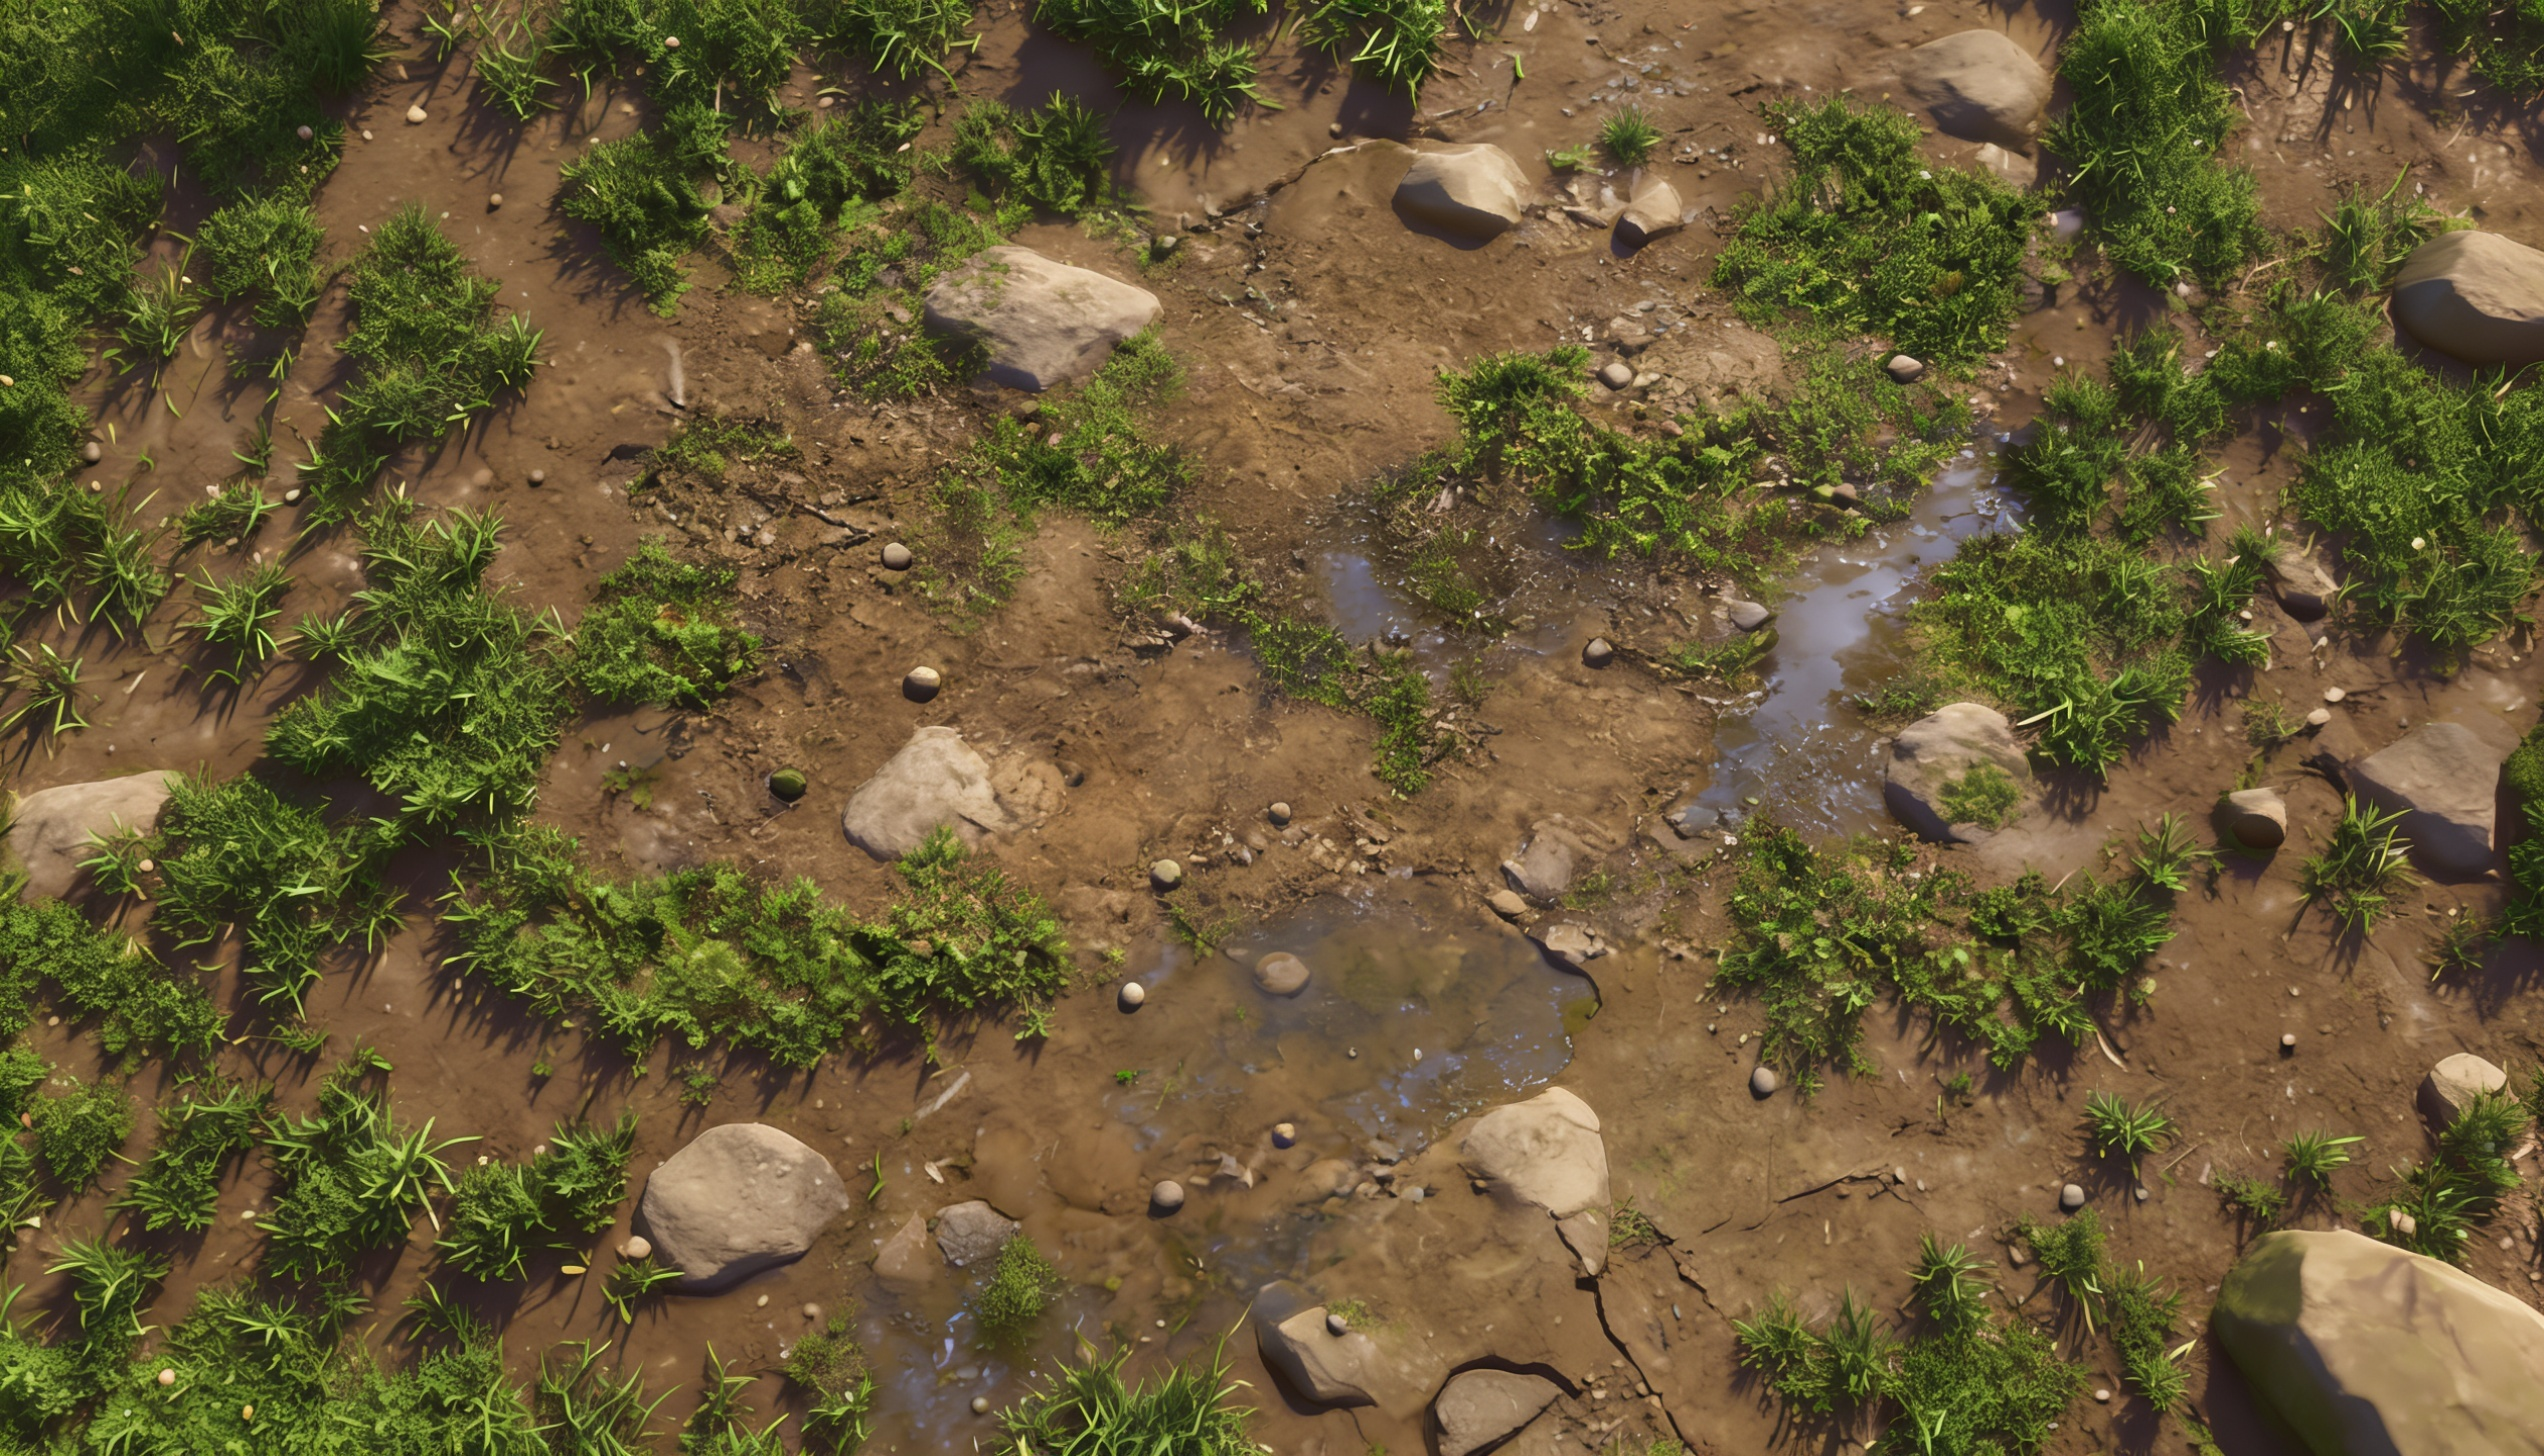
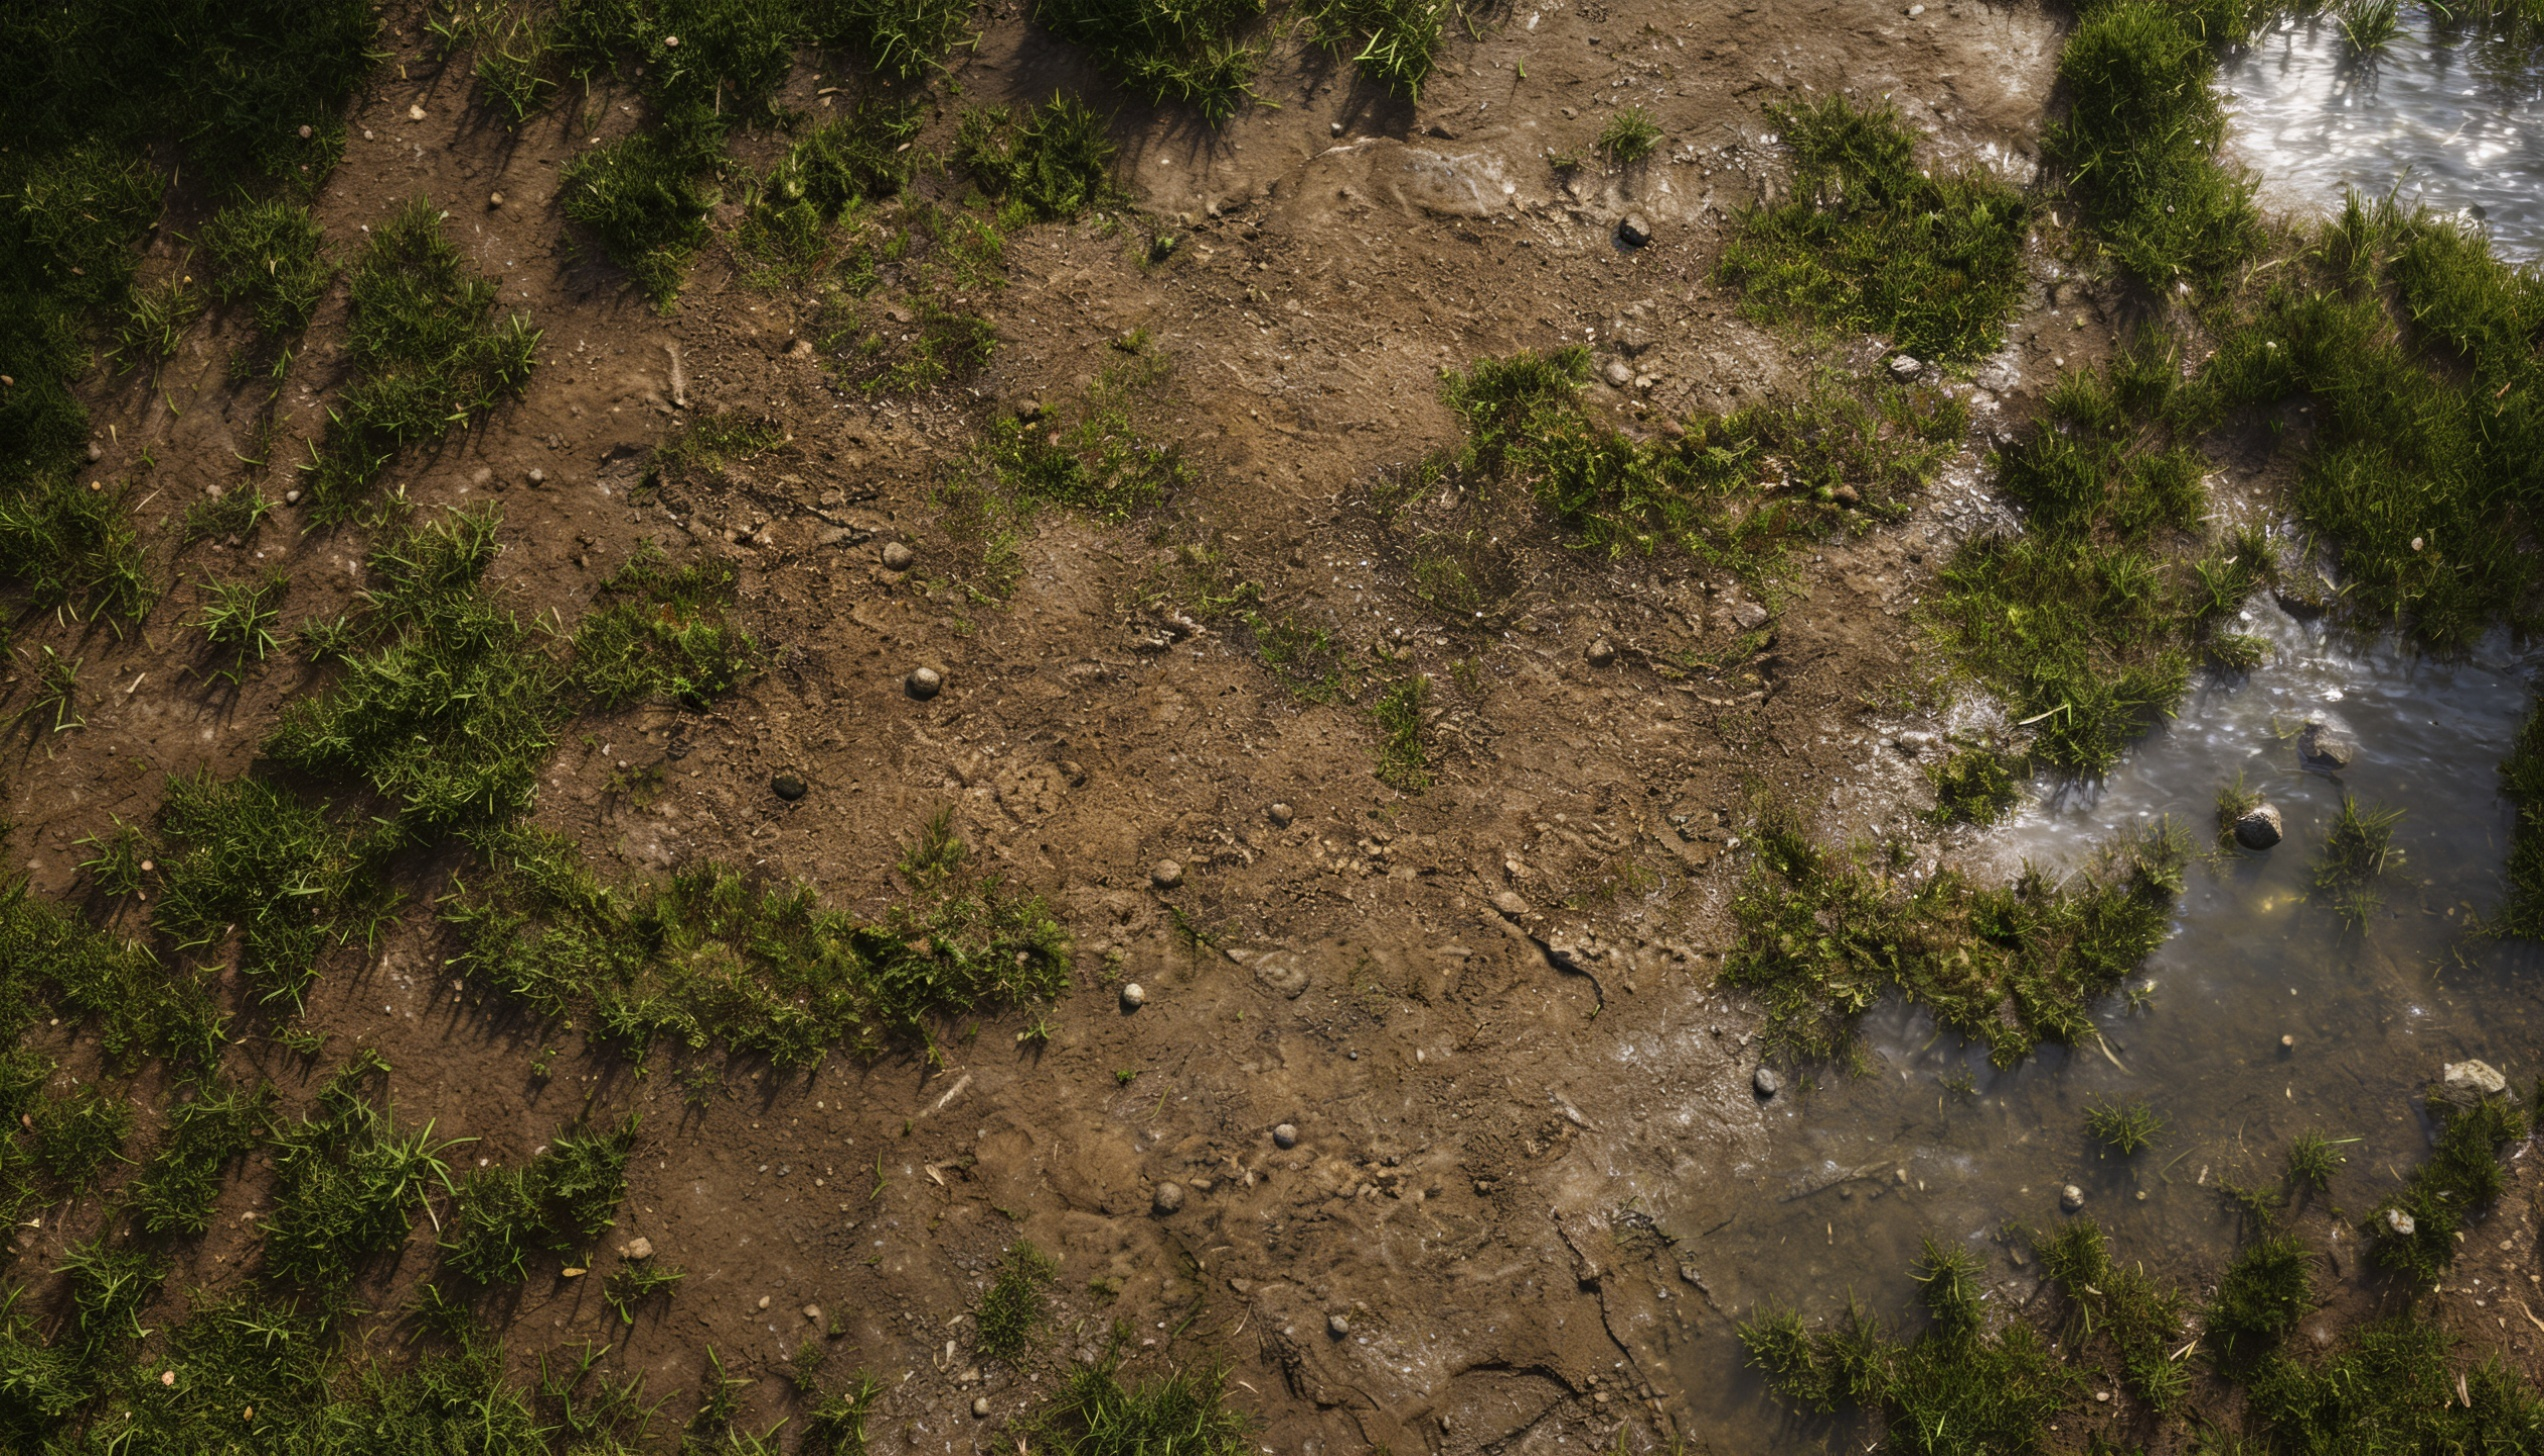
feat: populate initial scene with Model assets

diff --git a/src/lib/networkState.svelte.js b/src/lib/networkState.svelte.js
@@ -25,7 +25,7 @@ export const networkState = $state({
     buildMode: false,
     gridSize: 24,
     theme: 'soul-society',
-    backgroundImage: '',
+    backgroundImage: '/mapa.jpeg',
     backgroundImageOpacity: 1.0,
     basicPlaneSize: 'medium', // 'small' | 'medium' | 'large'
     activePopupImage: '', // Fullscreen shared image URL
@@ -37,11 +37,11 @@ export const networkState = $state({
         id: 'env-1',
         name: 'Gotei 13 (Soul Society)',
         theme: 'soul-society',
-        backgroundImage: '',
+        backgroundImage: '/mapa.jpeg',
         backgroundImageOpacity: 1.0,
         pieces: {
-          'o-1': { id: 'o-1', name: 'Senkaimon Gate', class: 'objeto', x: 4, y: 0, z: 5, color: '#ffaa00', textureUrl: '', hp: null, maxHp: null, notes: '', photos: [] },
-          'o-2': { id: 'o-2', name: 'Reishi Barrier', class: 'objeto', x: 3, y: 0, z: 3, color: '#888888', textureUrl: '', hp: null, maxHp: null, notes: '', photos: [] }
+          'o-1': { id: 'o-1', name: 'Barril', class: 'objeto', x: 4, y: 0, z: 5, color: '#d97706', textureUrl: '/barril.png', hp: null, maxHp: null, notes: 'Barril de madeira contendo suprimentos', photos: [] },
+          'o-2': { id: 'o-2', name: 'Baú', class: 'objeto', x: 3, y: 0, z: 3, color: '#f59e0b', textureUrl: '/bau.png', hp: null, maxHp: null, notes: 'Baú de tesouro trancado', photos: [] }
         }
       },
       'env-2': {
@@ -62,10 +62,12 @@ export const networkState = $state({
       }
     },
     pieces: {
-      'p-1': { id: 'p-1', name: 'Ichigo Kurosaki', class: 'personagem', x: 2, y: 0, z: 2, color: '#ff3e00', textureUrl: '/soldier.png', hp: 100, maxHp: 100, notes: '', photos: [] },
-      'p-2': { id: 'p-2', name: 'Rukia Kuchiki', class: 'personagem', x: 5, y: 0, z: 3, color: '#00aaff', textureUrl: '/feiticeiro.png', hp: 100, maxHp: 100, notes: '', photos: [] },
-      'o-1': { id: 'o-1', name: 'Senkaimon Gate', class: 'objeto', x: 4, y: 0, z: 5, color: '#ffaa00', textureUrl: '', hp: null, maxHp: null, notes: '', photos: [] },
-      'o-2': { id: 'o-2', name: 'Reishi Barrier', class: 'objeto', x: 3, y: 0, z: 3, color: '#888888', textureUrl: '', hp: null, maxHp: null, notes: '', photos: [] }
+      'p-1': { id: 'p-1', name: 'Ichigo Kurosaki', class: 'personagem', x: 2, y: 0, z: 2, color: '#ff3e00', textureUrl: '/soldier.png', hp: 100, maxHp: 100, notes: 'Ceifador de Almas Substituto', photos: [] },
+      'p-2': { id: 'p-2', name: 'Rukia Kuchiki', class: 'personagem', x: 5, y: 0, z: 3, color: '#00aaff', textureUrl: '/feiticeiro.png', hp: 100, maxHp: 100, notes: 'Tenente da 13ª Divisão', photos: [] },
+      'p-3': { id: 'p-3', name: 'Guarda', class: 'personagem', x: 4, y: 0, z: 1, color: '#10b981', textureUrl: '/guarda.png', hp: 80, maxHp: 80, notes: 'Guarda do Seireitei', photos: [] },
+      'p-4': { id: 'p-4', name: 'Monstro', class: 'personagem', x: 7, y: 0, z: 4, color: '#ef4444', textureUrl: '/monstro.png', hp: 120, maxHp: 120, notes: 'Hollow selvagem', photos: [] },
+      'o-1': { id: 'o-1', name: 'Barril', class: 'objeto', x: 4, y: 0, z: 5, color: '#d97706', textureUrl: '/barril.png', hp: null, maxHp: null, notes: 'Barril de madeira contendo suprimentos', photos: [] },
+      'o-2': { id: 'o-2', name: 'Baú', class: 'objeto', x: 3, y: 0, z: 3, color: '#f59e0b', textureUrl: '/bau.png', hp: null, maxHp: null, notes: 'Baú de tesouro trancado', photos: [] }
     }
   },
 